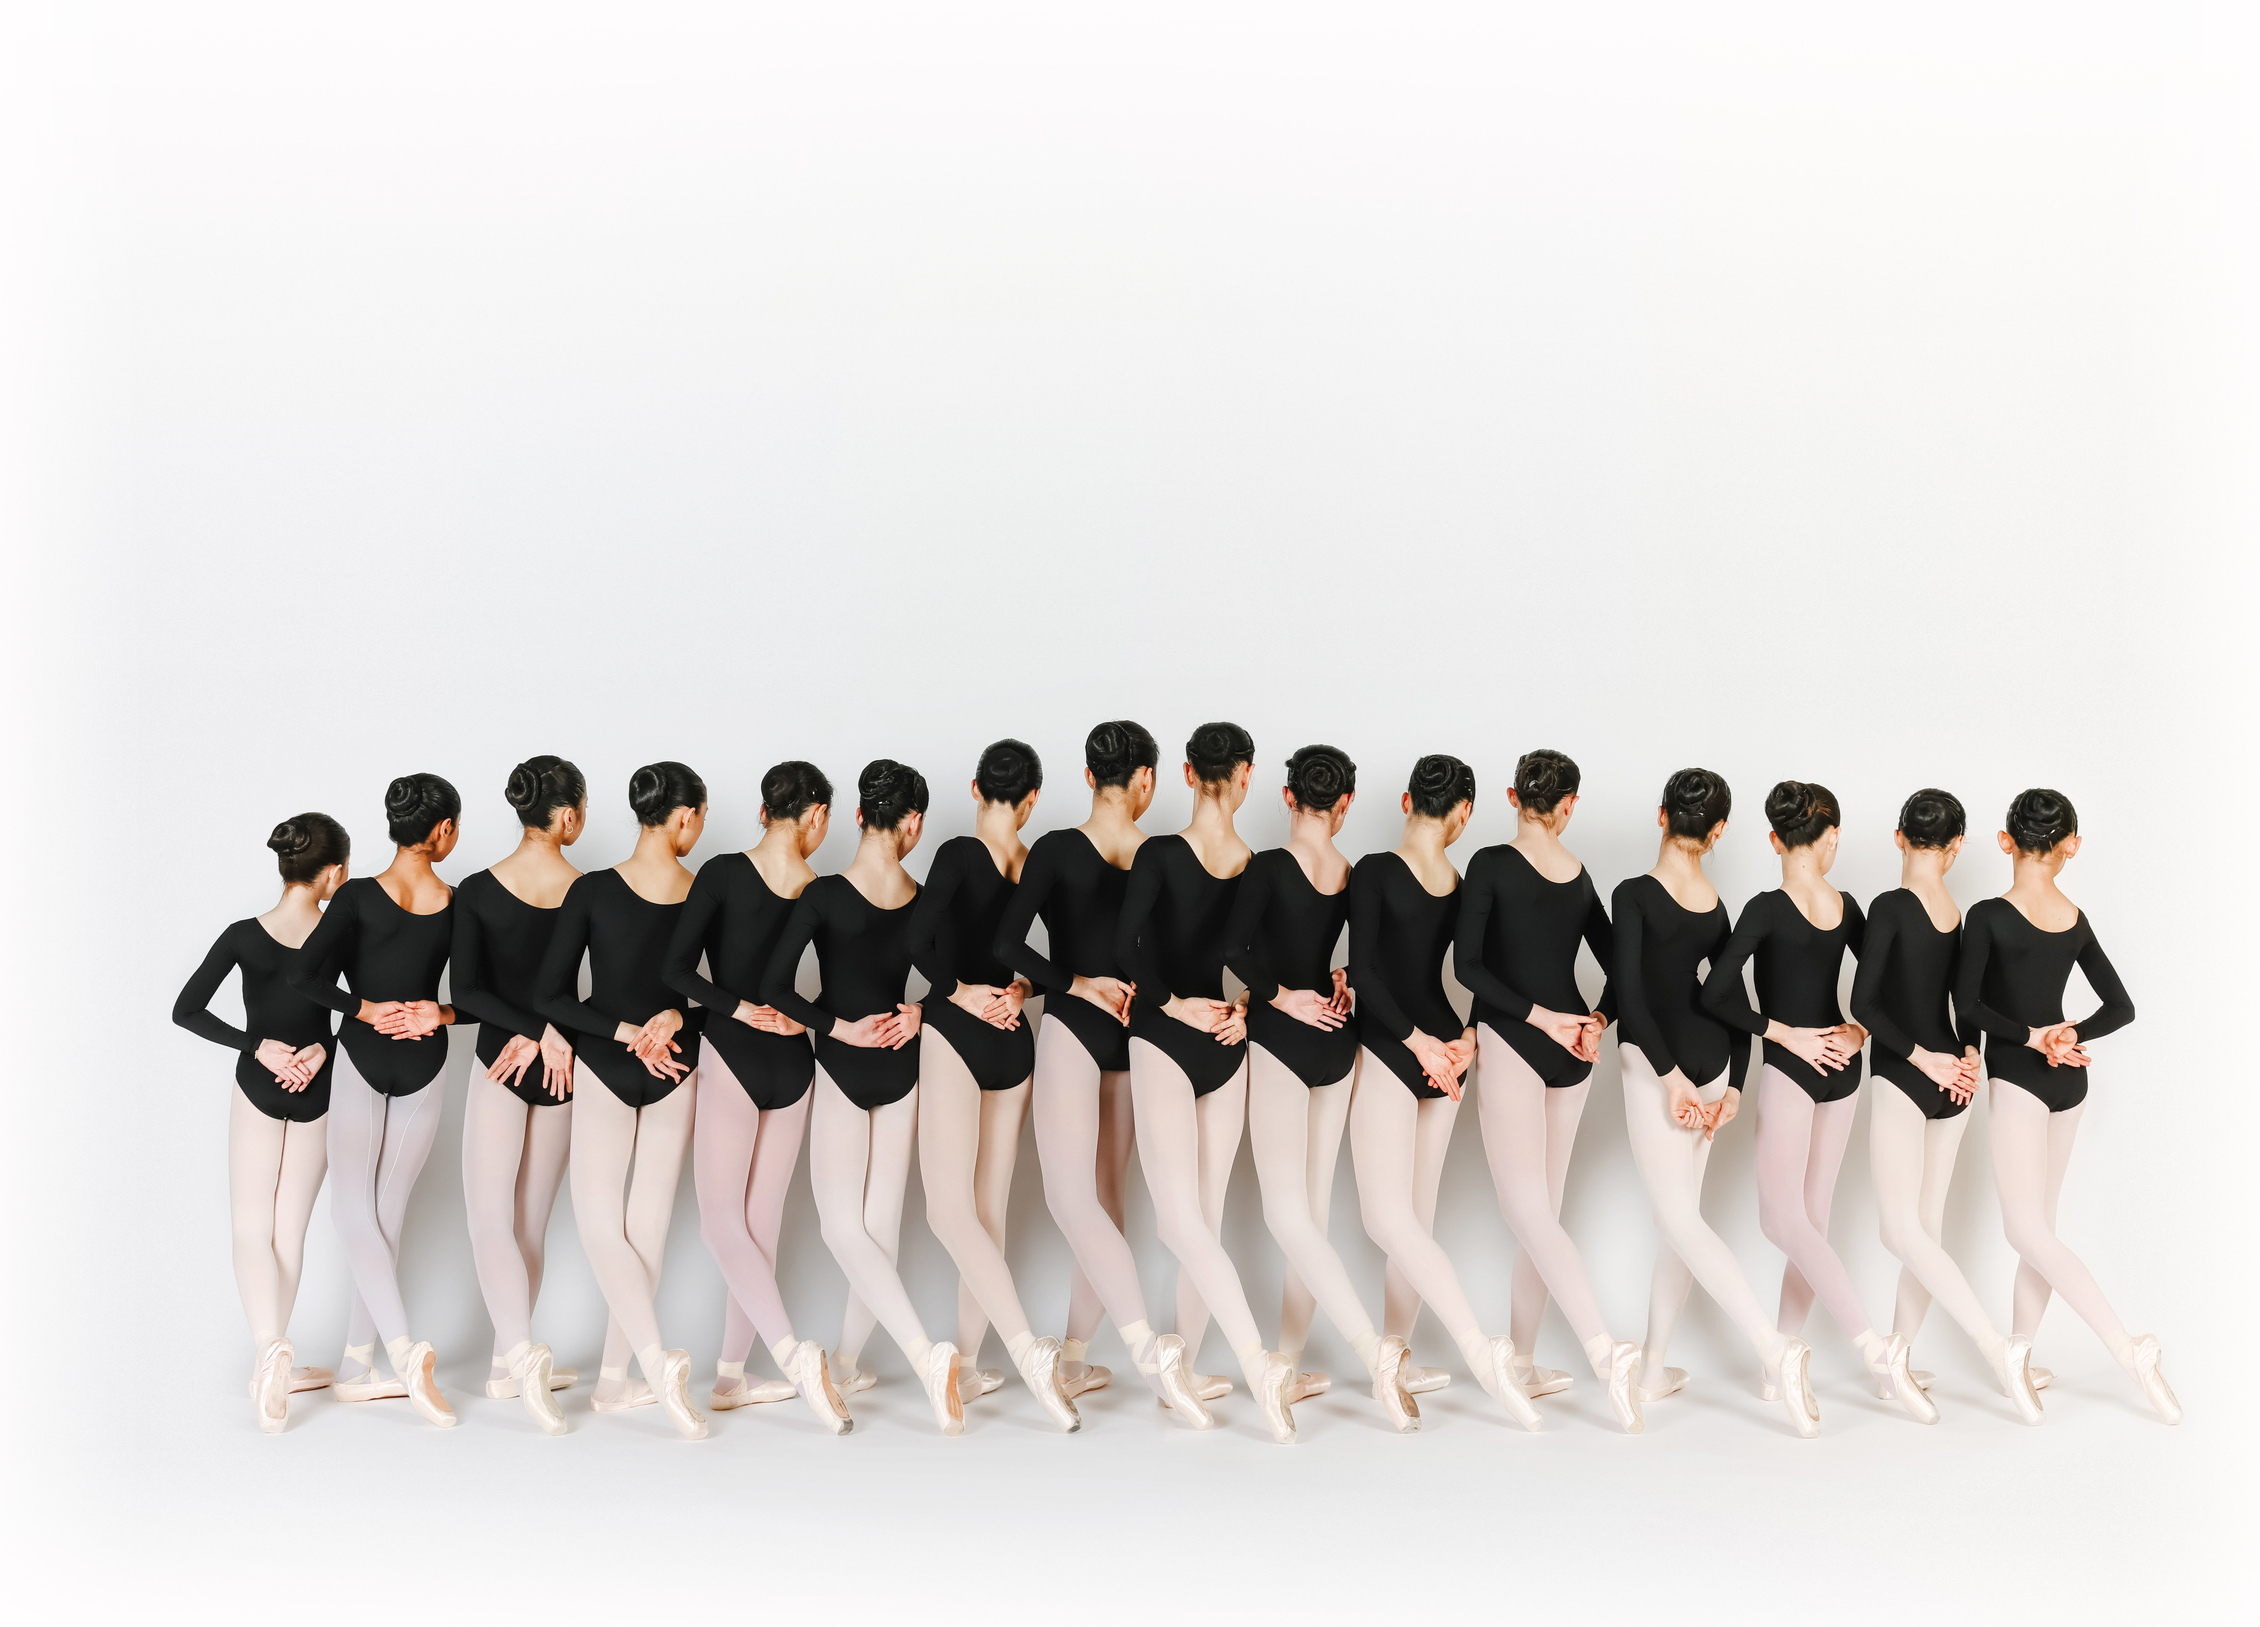
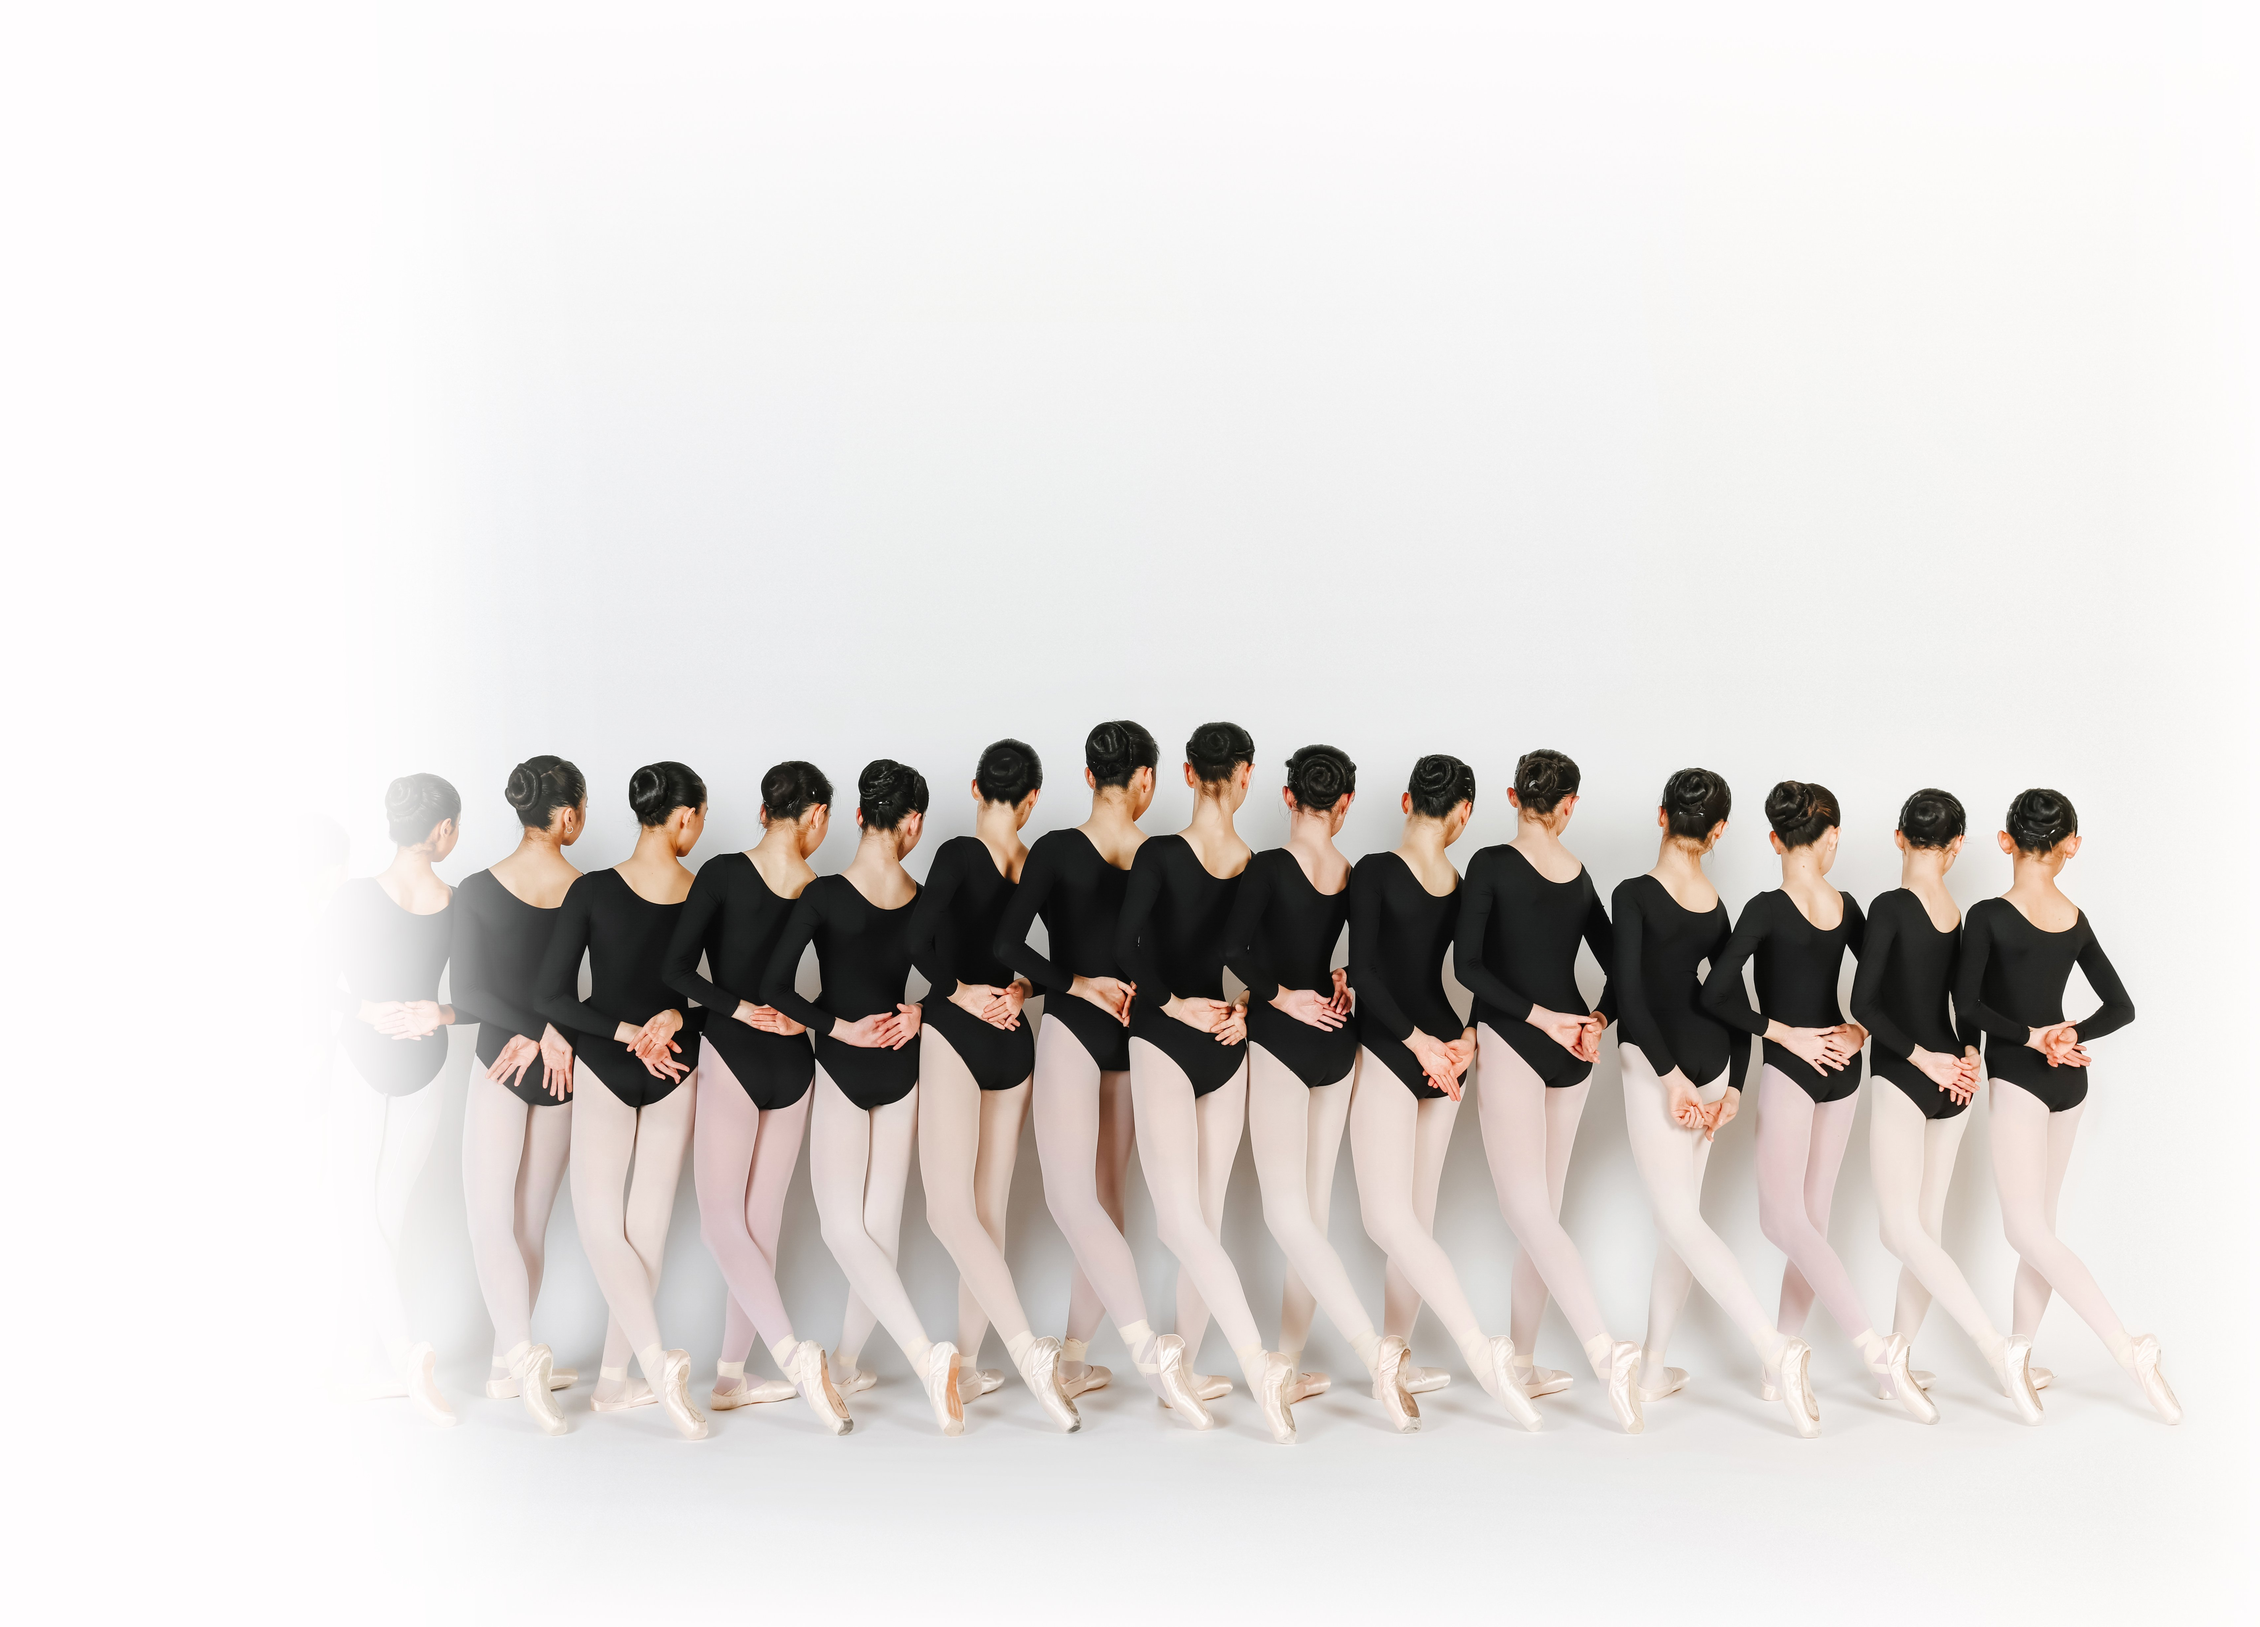
Try more defined colors

Changed region(s): [[0.0622, 0.4685, 0.2489, 0.9057]]

diff --git a/src/pages/programs.js b/src/pages/programs.js
@@ -219,7 +219,7 @@ const ProgramsPage = () => {
         {CLASS_INFO.map(({ title, subtext, description, classes, img }) => (
           <Accordion title={title} subtitle={subtext} className="relative">
             <br />
-            <img src={img} className="rounded absolute top-15 -z-10 opacity-20" />
+            <img src={img} className="rounded absolute top-15 -z-10 opacity-70" />
             <p className="py-4">{description}</p>
             <br />
             {classes.map(({ title, schedule }) => (
